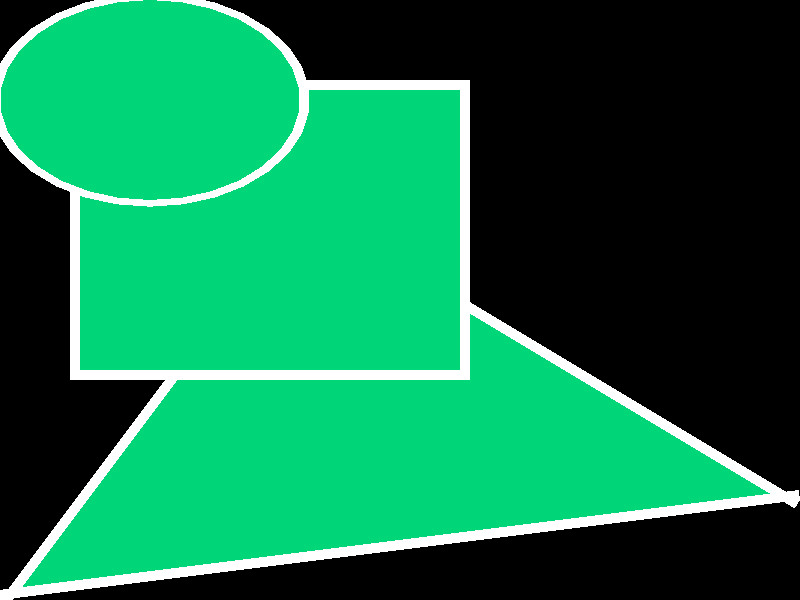
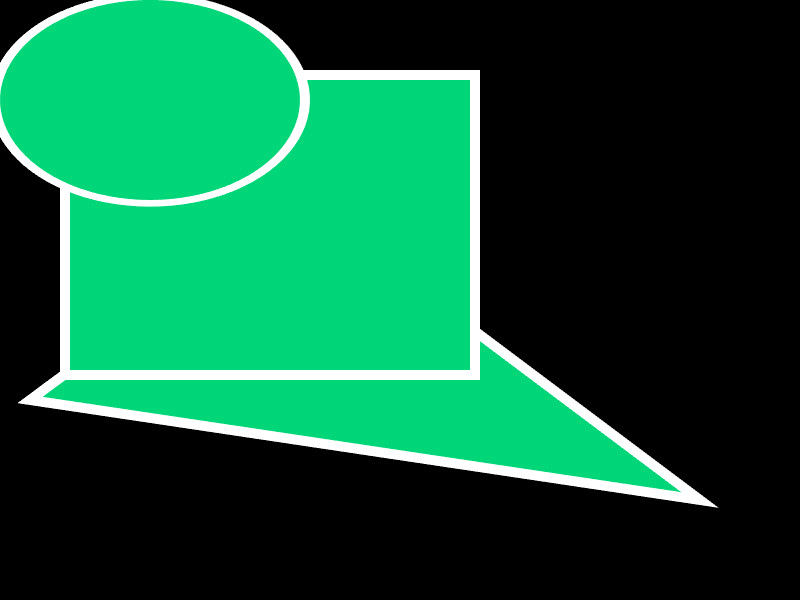
[lab7] add antialiasing level

Changed region(s): [[0.0, 0.09, 1.0, 1.0]]

diff --git a/lab7/Console_Slides/Console_Slides.cpp b/lab7/Console_Slides/Console_Slides.cpp
@@ -15,9 +15,9 @@
 
 int main()
 {
-	auto vertexA = Point{ 0, 600 };
+	auto vertexA = Point{ 30, 400 };
 	auto vertexB = Point{ 300, 200 };
-	auto vertexC = Point{ 800, 500 };
+	auto vertexC = Point{ 700, 500 };
 	uint32_t fillcolor = 0x00D678FF;
 	uint32_t linecolor = 0xFFFFFFFF;
 
@@ -58,8 +58,9 @@ int main()
 	//change frame
 	//auto shape = slide->GetShapeAtIndex(0);
 	//shape->SetFrame({ 0, 0, 400, 300 });
-
-	auto renderWindow = sf::RenderWindow(sf::VideoMode(800, 600), "canvas");
+	sf::ContextSettings settings;
+	settings.antialiasingLevel = 8;
+	auto renderWindow = sf::RenderWindow(sf::VideoMode(800, 600), "canvas", sf::Style::Default, settings);
 	auto sfmlCanvas = SFMLCanvas(renderWindow);
 
 	// run the program as long as the window is open
